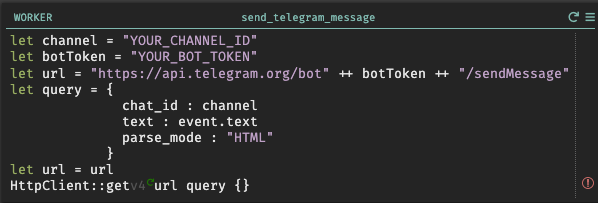
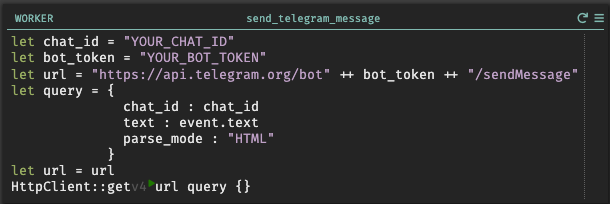
fix

diff --git a/posts/2020-03-04-Send-a-Telegram-message-with-Darklang.md b/posts/2020-03-04-Send-a-Telegram-message-with-Darklang.md
@@ -9,20 +9,28 @@ tags:
 
 In this example you can see how to emit a *Worker* event with Darklang.
 
+### Telegram endpoint `/sendMessage`
+
+Using the endpoint [`messages.sendMessage`](https://core.telegram.org/method/messages.sendMessage) you can simply send a message on Telegram by calling this endpoint via GET and the needed parameters in the query string.
+
+## The worker
+
 The worker is named `send_telegram_message` and looks like this:
 
 ```haskell
-let channel = "YOUR_CHANNEL_ID"
-let botToken = "YOUR_BOT_TOKEN"
-let url = "https://api.telegram.org/bot" ++ botToken ++ "/sendMessage"
+let chat_id = "YOUR_CHAT_ID"
+let bot_token = "YOUR_BOT_TOKEN"
+let url = "https://api.telegram.org/bot" ++ bot_token ++ "/sendMessage"
 let query = {
-              chat_id : channel
+              chat_id : chat_id
               text : event.text
               parse_mode : "HTML"
             }
 let url = url
 HttpClient::getv4 url query {}
 ```
+
+## Calling the worker
 
 The worker is then called with and *event body*, which should contain *the text to send via Telegram*:
 
